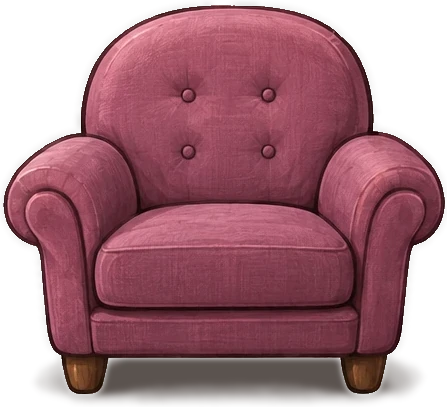
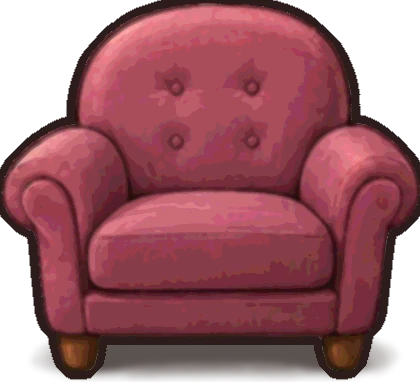
Detailed painted pieces, redrawn to match the room's style
- Twelve pieces from the new sheets, and the six from the sheet
  before, are brought closer to the room's look: a bold dark outline,
  simpler broad colour, painted linework and warmer tones.
  - Furniture: armchair, sofa, gothic bookcase, desk, round table,
    fireplace, cobwebbed bookcase, glass-front cabinet, old desk, rusty
    locker and TV stand.
  - Curios: raven on books, skull, flower skull, herb bundle, mushroom
    cloche and birdcage.
- The cloche gets clean see-through glass.
- A new small pedestal table.
- The TV's flicker sits on its new screen.

diff --git a/js/room/decorations.js b/js/room/decorations.js
@@ -71,13 +71,13 @@ const isRoomTab = (id) => id.startsWith("room-");
 
 export const DECOR_ASSETS = [
     // Hand-painted pieces (pictures, not drawings): each shows first in its tab.
-    { id: "art-armchair-plum", src: "assets/decor/painted/armchair_plum.webp", size: [447, 407], width: 190, name: "Plum tufted armchair", group: "seating" },
-    { id: "art-sofa-pumpkin", src: "assets/decor/painted/sofa_pumpkin.webp", size: [565, 349], width: 300, name: "Pumpkin scalloped sofa", group: "seating" },
+    { id: "art-armchair-plum", src: "assets/decor/painted/armchair_plum.webp", size: [420, 382], width: 190, name: "Plum tufted armchair", group: "seating" },
+    { id: "art-sofa-pumpkin", src: "assets/decor/painted/sofa_pumpkin.webp", size: [420, 258], width: 300, name: "Pumpkin scalloped sofa", group: "seating" },
     { id: "art-moon-pillow", src: "assets/decor/painted/moon_pillow.webp", size: [198, 157], width: 90, name: "Plaid moon pillow", group: "seating" },
     { id: "art-side-table", src: "assets/decor/painted/side_table.webp", size: [214, 230], width: 120, name: "Carved cabinet table", group: "tables" },
-    { id: "art-gothic-bookcase", src: "assets/decor/painted/gothic_bookcase.webp", size: [372, 445], width: 150, name: "Gothic bookcase", group: "storage" },
+    { id: "art-gothic-bookcase", src: "assets/decor/painted/gothic_bookcase.webp", size: [350, 420], width: 150, name: "Gothic bookcase", group: "storage" },
     { id: "art-apothecary-cabinet", src: "assets/decor/painted/potion_cabinet.webp", size: [228, 309], width: 200, name: "Apothecary cabinet", group: "retired" },
-    { id: "art-stone-fireplace", src: "assets/decor/painted/stone_fireplace.webp", size: [512, 418], width: 250, name: "Stone fireplace", group: "storage" },
+    { id: "art-stone-fireplace", src: "assets/decor/painted/stone_fireplace.webp", size: [420, 342], width: 250, name: "Stone fireplace", group: "storage" },
     { id: "art-fringed-lamp", src: "assets/decor/painted/fringed_lamp.webp", size: [213, 320], width: 100, name: "Fringed floor lamp", group: "lighting" },
     { id: "art-candelabra", src: "assets/decor/painted/candelabra.webp", size: [256, 302], width: 100, name: "Brass candelabra", group: "lighting" },
     { id: "art-hanging-lantern", src: "assets/decor/painted/hanging_lantern.webp", size: [174, 344], width: 60, name: "Hanging lantern", group: "lighting" },
@@ -103,9 +103,9 @@ export const DECOR_ASSETS = [
     { id: "art-rug-crescent", src: "assets/decor/painted/rug_moon.webp", size: [297, 231], width: 260, name: "Crescent moon rug", group: "retired", floor: true },
     { id: "art-tattered-wingback", src: "assets/decor/painted/tattered_wingback.webp", size: [310, 308], width: 190, name: "Tattered wingback", group: "seating" },
     { id: "art-torn-recliner", src: "assets/decor/painted/torn_recliner.webp", size: [312, 308], width: 210, name: "Torn recliner", group: "seating" },
-    { id: "art-haunted-tv-stand", src: "assets/decor/painted/tv_stand.webp", size: [330, 261], width: 200, name: "TV stand", group: "storage" },
-    { id: "art-dusty-bookcase", src: "assets/decor/painted/leaning_bookcase.webp", size: [261, 306], width: 160, name: "Dusty bookcase", group: "retired" },
-    { id: "art-rusty-locker", src: "assets/decor/painted/rusty_locker.webp", size: [165, 267], width: 160, name: "Rusty locker", group: "storage" },
+    { id: "art-haunted-tv-stand", src: "assets/decor/painted/tv_stand.webp", size: [420, 373], width: 200, name: "TV stand", group: "storage" },
+    { id: "art-dusty-bookcase", src: "assets/decor/painted/leaning_bookcase.webp", size: [327, 420], width: 160, name: "Dusty bookcase", group: "retired" },
+    { id: "art-rusty-locker", src: "assets/decor/painted/rusty_locker.webp", size: [250, 420], width: 160, name: "Rusty locker", group: "storage" },
     { id: "art-phone-table", src: "assets/decor/painted/phone_table.webp", size: [218, 280], width: 150, name: "Telephone table", group: "tables" },
     { id: "art-stitched-mask", src: "assets/decor/painted/stone_mask.webp", size: [228, 270], width: 80, name: "Stone mask", group: "haunted" },
     { id: "art-button-eye-doll", src: "assets/decor/painted/voodoo_doll.webp", size: [282, 288], width: 110, name: "Stitched doll", group: "haunted" },
@@ -133,14 +133,14 @@ export const DECOR_ASSETS = [
     { id: "art-eye-sign", src: "assets/decor/painted/eye_sign.webp", size: [315, 267], width: 140, name: "All-seeing eye sign", group: "pictures" },
     { id: "art-faded-wingback", src: "assets/decor/painted/tattered_wingback.webp", size: [310, 308], width: 180, name: "Faded wingback", group: "retired" },
     { id: "art-tattered-chaise", src: "assets/decor/painted/velvet_chaise.webp", size: [382, 243], width: 290, name: "Tattered chaise", group: "retired" },
-    { id: "art-cobweb-bookcase", src: "assets/decor/painted/leaning_bookcase.webp", size: [261, 306], width: 160, name: "Leaning bookcase", group: "storage" },
-    { id: "art-old-writing-desk", src: "assets/decor/painted/old_desk.webp", size: [405, 222], width: 210, name: "Old desk", group: "tables" },
-    { id: "art-broken-cabinet", src: "assets/decor/painted/glass_cabinet.webp", size: [242, 308], width: 150, name: "Glass-front cabinet", group: "storage" },
+    { id: "art-cobweb-bookcase", src: "assets/decor/painted/leaning_bookcase.webp", size: [327, 420], width: 160, name: "Leaning bookcase", group: "storage" },
+    { id: "art-old-writing-desk", src: "assets/decor/painted/old_desk.webp", size: [420, 279], width: 210, name: "Old desk", group: "tables" },
+    { id: "art-broken-cabinet", src: "assets/decor/painted/glass_cabinet.webp", size: [420, 409], width: 190, name: "Glass-front cabinet", group: "storage" },
     { id: "art-cold-fireplace", src: "assets/decor/painted/cold_fireplace.webp", size: [326, 230], width: 240, name: "Cold stone fireplace", group: "storage" },
     { id: "art-cracked-mirror", src: "assets/decor/painted/cracked_mirror.webp", size: [237, 306], width: 110, name: "Cracked mirror", group: "pictures" },
     { id: "art-haunted-portrait", src: "assets/decor/painted/haunted_portrait.webp", size: [220, 296], width: 120, name: "Haunted portrait", group: "pictures" },
     { id: "art-raven-statue", src: "assets/decor/painted/raven_statue.webp", size: [188, 211], width: 110, name: "Raven on a stone", group: "haunted" },
-    { id: "art-open-birdcage", src: "assets/decor/painted/birdcage.webp", size: [232, 303], width: 110, name: "Birdcage", group: "haunted" },
+    { id: "art-open-birdcage", src: "assets/decor/painted/birdcage.webp", size: [344, 420], width: 110, name: "Birdcage", group: "haunted" },
     { id: "art-skull-on-books", src: "assets/decor/painted/skull_on_books.webp", size: [239, 190], width: 120, name: "Skull on old books", group: "bookish" },
     { id: "art-grandfather-clock", src: "assets/decor/painted/grandfather_clock.webp", size: [190, 285], width: 110, name: "Grandfather clock", group: "storage" },
     { id: "art-cobweb-candelabra", src: "assets/decor/painted/candelabra.webp", size: [256, 302], width: 120, name: "Cobwebbed candelabra", group: "retired" },
@@ -163,15 +163,15 @@ export const DECOR_ASSETS = [
     { id: "art-torn-curtains", src: "assets/decor/painted/torn_curtains.webp", size: [344, 276], width: 240, name: "Torn curtains", group: "retired" },
     { id: "art-velvet-chaise", src: "assets/decor/painted/velvet_chaise.webp", size: [382, 243], width: 290, name: "Velvet chaise", group: "seating" },
     { id: "art-rocking-chair", src: "assets/decor/painted/rocking_chair.webp", size: [278, 309], width: 170, name: "Cushioned rocking chair", group: "seating" },
-    { id: "art-moon-writing-desk", src: "assets/decor/painted/writing_desk.webp", size: [553, 346], width: 210, name: "Writing desk", group: "tables" },
+    { id: "art-moon-writing-desk", src: "assets/decor/painted/writing_desk.webp", size: [420, 262], width: 210, name: "Writing desk", group: "tables" },
     { id: "art-potion-cabinet", src: "assets/decor/painted/potion_cabinet.webp", size: [228, 309], width: 130, name: "Potion cabinet", group: "storage" },
-    { id: "art-gothic-shelf", src: "assets/decor/painted/gothic_bookcase.webp", size: [372, 445], width: 140, name: "Gothic arched shelf", group: "retired" },
+    { id: "art-gothic-shelf", src: "assets/decor/painted/gothic_bookcase.webp", size: [350, 420], width: 140, name: "Gothic arched shelf", group: "retired" },
     { id: "art-gramophone", src: "assets/decor/painted/gramophone.webp", size: [214, 300], width: 120, name: "Gramophone", group: "cozy" },
-    { id: "art-flower-skull", src: "assets/decor/painted/flower_skull.webp", size: [285, 249], width: 110, name: "Flower-crowned skull", group: "spooky" },
+    { id: "art-flower-skull", src: "assets/decor/painted/flower_skull.webp", size: [370, 420], width: 110, name: "Flower-crowned skull", group: "spooky" },
     { id: "art-amethyst-cluster", src: "assets/decor/painted/amethyst_cluster.webp", size: [250, 256], width: 100, name: "Amethyst cluster", group: "witchy" },
-    { id: "art-lavender-bundle", src: "assets/decor/painted/herb_bundle.webp", size: [262, 294], width: 100, name: "Herb and flower bundle", group: "plants" },
-    { id: "art-raven-on-books", src: "assets/decor/painted/raven_on_books.webp", size: [324, 294], width: 120, name: "Raven on books", group: "bookish" },
-    { id: "art-mushroom-cloche", src: "assets/decor/painted/mushroom_cloche.webp", size: [249, 285], width: 100, name: "Mushroom cloche", group: "witchy" },
+    { id: "art-lavender-bundle", src: "assets/decor/painted/herb_bundle.webp", size: [338, 420], width: 100, name: "Herb and flower bundle", group: "plants" },
+    { id: "art-raven-on-books", src: "assets/decor/painted/raven_on_books.webp", size: [372, 420], width: 120, name: "Raven on books", group: "bookish" },
+    { id: "art-mushroom-cloche", src: "assets/decor/painted/mushroom_cloche.webp", size: [347, 420], width: 100, name: "Mushroom cloche", group: "witchy" },
     { id: "art-ghost-portrait", src: "assets/decor/painted/ghost_portrait.webp", size: [248, 346], width: 110, name: "Ghost portrait", group: "pictures" },
     { id: "art-tiffany-lamp", src: "assets/decor/painted/pink_lamp.webp", size: [201, 264], width: 110, name: "Pink table lamp", group: "lighting" },
     { id: "art-oil-lamp", src: "assets/decor/painted/oil_lamp.webp", size: [201, 288], width: 80, name: "Brass oil lamp", group: "lighting" },
@@ -225,7 +225,8 @@ export const DECOR_ASSETS = [
     { id: "art-tufted-ottoman", src: "assets/decor/painted/tufted_ottoman.webp", size: [291, 218], width: 130, name: "Tufted ottoman", group: "seating" },
     { id: "art-mushroom-stool", src: "assets/decor/painted/mushroom_stool.webp", size: [240, 218], width: 90, name: "Mushroom stool", group: "seating" },
     { id: "art-wooden-bench", src: "assets/decor/painted/wooden_bench.webp", size: [344, 168], width: 180, name: "Wooden bench", group: "seating" },
-    { id: "art-round-table", src: "assets/decor/painted/round_table.webp", size: [322, 389], width: 130, name: "Round pedestal table", group: "tables" },
+    { id: "art-round-table", src: "assets/decor/painted/round_table.webp", size: [347, 420], width: 130, name: "Round pedestal table", group: "tables" },
+    { id: "art-pedestal-table", src: "assets/decor/painted/pedestal_table.webp", size: [338, 420], width: 110, name: "Small pedestal table", group: "tables" },
     { id: "art-tea-trolley", src: "assets/decor/painted/tea_trolley.webp", size: [298, 252], width: 150, name: "Tea trolley", group: "tables" },
     { id: "art-book-cart", src: "assets/decor/painted/book_cart.webp", size: [286, 248], width: 150, name: "Book cart", group: "storage" },
     { id: "art-chest-of-drawers", src: "assets/decor/painted/chest_of_drawers.webp", size: [267, 240], width: 150, name: "Chest of drawers", group: "storage" },
@@ -256,7 +257,7 @@ export const DECOR_ASSETS = [
     { id: "art-rug-bat", src: "assets/decor/painted/rug_bat.webp", size: [400, 201], width: 260, name: "Bat rug", group: "rugs", floor: true },
     { id: "art-rug-ghost", src: "assets/decor/painted/rug_ghost.webp", size: [321, 216], width: 230, name: "Ghost rug", group: "rugs", floor: true },
     { id: "art-black-cat", src: "assets/decor/painted/black_cat.webp", size: [206, 290], width: 90, name: "Black cat", group: "spooky" },
-    { id: "art-skull", src: "assets/decor/painted/skull.webp", size: [242, 246], width: 80, name: "Skull", group: "spooky" },
+    { id: "art-skull", src: "assets/decor/painted/skull.webp", size: [390, 420], width: 80, name: "Skull", group: "spooky" },
     { id: "art-pumpkin-trio", src: "assets/decor/painted/pumpkin_trio.webp", size: [362, 249], width: 120, name: "Three pumpkins", group: "autumn" },
     { id: "art-broom", src: "assets/decor/painted/broom.webp", size: [342, 272], width: 130, name: "Witch's broom", group: "witchy" },
     { id: "art-crystal-ball", src: "assets/decor/painted/crystal_ball.webp", size: [216, 258], width: 80, name: "Crystal ball", group: "witchy" },

diff --git a/js/room/painted-fx.js b/js/room/painted-fx.js
@@ -45,7 +45,7 @@ const FX = {
     flashlight: "beam 6 60 -1",
     crystal_ball: "glow 45 37 3 amethyst; sparkle 45 37 70 55 5; sheen",
     retro_tv: "screen 49.3 50 53.3 61.7",
-    tv_stand: "screen 43 31.4 44.1 37.7",
+    tv_stand: "screen 40 25 38 30",
     camcorder: "blink 72 20",
     gramophone: "notes 60 5",
     boombox: "notes 50 5",
